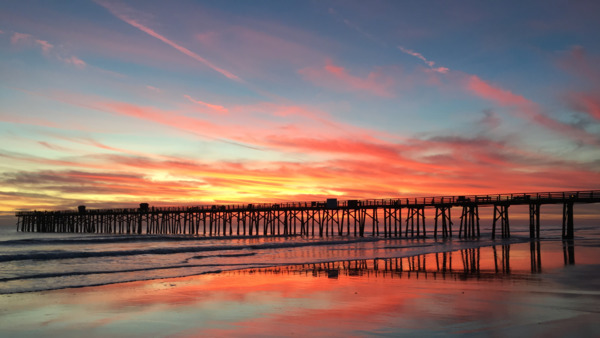
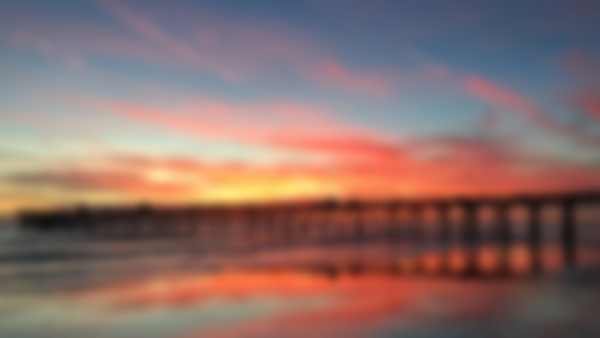
Handle OpenCL Gaussian blur

diff --git a/src/main.rs b/src/main.rs
@@ -2,11 +2,12 @@ extern crate image;
 extern crate ocl;
 
 use ocl::enums::{ImageChannelDataType, ImageChannelOrder, MemObjectType};
-use ocl::{builders::DeviceSpecifier, Image, ProQue};
+use ocl::{builders::DeviceSpecifier, Buffer, Image, ProQue};
+use std::fs;
 use std::path::Path;
 
-fn create_matrix(radius: i32) {
-    let width = (radius * 2) as usize;
+fn create_matrix(radius: i32) -> Vec<f32> {
+    let width = ((radius * 2) + 1) as usize;
     let mut mtrx = vec![vec![0.0f32; width]; width];
     let sigma: f32 = (radius as f32 / 2.0).max(1.0);
     let e = std::f32::consts::E;
@@ -23,66 +24,56 @@ fn create_matrix(radius: i32) {
 
             let i = (x + radius as i32) as usize;
             let j = (y + radius as i32) as usize;
+
             mtrx[i][j] = e_val;
             sum += mtrx[i][j];
         }
     }
 
+    // Normalize the kernel so that sum = 1
     for x in 0..width {
         for y in 0..width {
             mtrx[x][y] /= sum;
         }
     }
 
-    println!("{:?}", mtrx);
+    // Now convert it to the Vec<f32>
+    let flatten_mtrx: Vec<f32> = mtrx
+        .iter()
+        .flat_map(|nested| nested.iter())
+        .cloned()
+        .collect();
 
-    // Now convert it to the float* ( so [f32] slice )
+    flatten_mtrx
 }
 
 fn load_image(path: &str) -> image::ImageBuffer<image::Rgba<u8>, Vec<u8>> {
-    let load = image::open(&Path::new(path)).unwrap();
-    let img = load.to_rgba();
+    let img = image::open(&Path::new(path)).unwrap().to_rgba();
 
     img
 }
 
 fn main() -> ocl::Result<()> {
-    let src = r#"
-    __constant sampler_t sampler_const =
-    CLK_NORMALIZED_COORDS_FALSE |
-    CLK_ADDRESS_NONE |
-    CLK_FILTER_NEAREST;
+    // Load source file and make it a string
+    let src_file = fs::read("src/kernel.cl")?;
+    let src_string = String::from_utf8(src_file).unwrap();
 
-    __kernel void copy_img(read_only image2d_t source, write_only image2d_t dest) {
-        // buffer[get_global_id(0)] += scalar;
-        //
-        // Get current pixel
-        const int2 pixel_id = (int2)(get_global_id(0), get_global_id(1));
-
-        // Read the pixel into float4 value
-        const float4 rgba = read_imagef(source, sampler_const, pixel_id);
-
-        // Copy original contents into the output
-        write_imagef(dest, pixel_id, (float4)(rgba.x, rgba.y, rgba.z, 1.0));
-    }
-    "#;
-
-    // Load source image (host)
+    // // Load source image (host)
     let source_img = load_image("test.jpg");
     let dims = source_img.dimensions();
 
     let pro_que = ProQue::builder()
-        .src(src)
+        .src(src_string)
         .device(DeviceSpecifier::TypeFlags(ocl::flags::DEVICE_TYPE_GPU))
-        .dims(&dims) // 64 dec
-        .build()?;
+        .dims(&dims)
+        .build()
+        .unwrap();
 
-    let buffer = pro_que.create_buffer::<f32>()?;
-
-    // This will be the output image (host)
+    // // This will be the output image (host)
     let mut result: image::ImageBuffer<image::Rgba<u8>, Vec<u8>> =
         image::ImageBuffer::new(dims.0, dims.1);
 
+    // // Source image buffer (GPU)
     let cl_source = Image::<u8>::builder()
         .channel_order(ImageChannelOrder::Rgba)
         .channel_data_type(ImageChannelDataType::UnormInt8)
@@ -98,6 +89,7 @@ fn main() -> ocl::Result<()> {
         .build()
         .unwrap();
 
+    // // Destination image buffer (GPU)
     let cl_destination = Image::<u8>::builder()
         .channel_order(ImageChannelOrder::Rgba)
         .channel_data_type(ImageChannelDataType::UnormInt8)
@@ -113,42 +105,35 @@ fn main() -> ocl::Result<()> {
         .build()
         .unwrap();
 
+    let blur_kernel_radius = 10;
+    let vec_blur_kernel = create_matrix(blur_kernel_radius);
+    let blur_kernel_length = vec_blur_kernel.len();
+    let blur_kernel_buffer = Buffer::builder()
+        .queue(pro_que.queue().clone())
+        .flags(ocl::flags::MEM_READ_WRITE)
+        .len(blur_kernel_length)
+        .copy_host_slice(&vec_blur_kernel)
+        .build()?;
+
+    // Set up the kernel
     let kernel = pro_que
-        .kernel_builder("copy_img")
+        .kernel_builder("blur")
+        .arg(&blur_kernel_buffer)
+        .arg(blur_kernel_radius)
         .arg(&cl_source)
         .arg(&cl_destination)
         .build()?;
 
+    // Enqueue the kernel
     unsafe {
         kernel.enq()?;
     }
 
+    // // Copy output buffer to the result image on the host
     cl_destination.read(&mut result).enq()?;
 
+    // // Save the image
     result.save(&Path::new("result.png")).unwrap();
 
     Ok(())
-
-    // create_matrix(2);
-
-    // let nested_array = [
-    //     [17, 16, 15, 14, 13],
-    //     [18, 5, 4, 3, 12],
-    //     [19, 6, 1, 2, 11],
-    //     [20, 7, 8, 9, 10],
-    //     [21, 22, 23, 24, 25],
-    // ];
-    // let flatten_array: Vec<i32> = nested_array
-    //     .iter()
-    //     .flat_map(|array| array.iter())
-    //     .cloned()
-    //     .collect();
-
-    // let mtrx = [
-    //     [1, 2, 3],
-    //     [4, 5, 6],
-    //     [7, 8, 9],
-    // ];
-
-    // println!("{:?}", flatten_array);
 }
